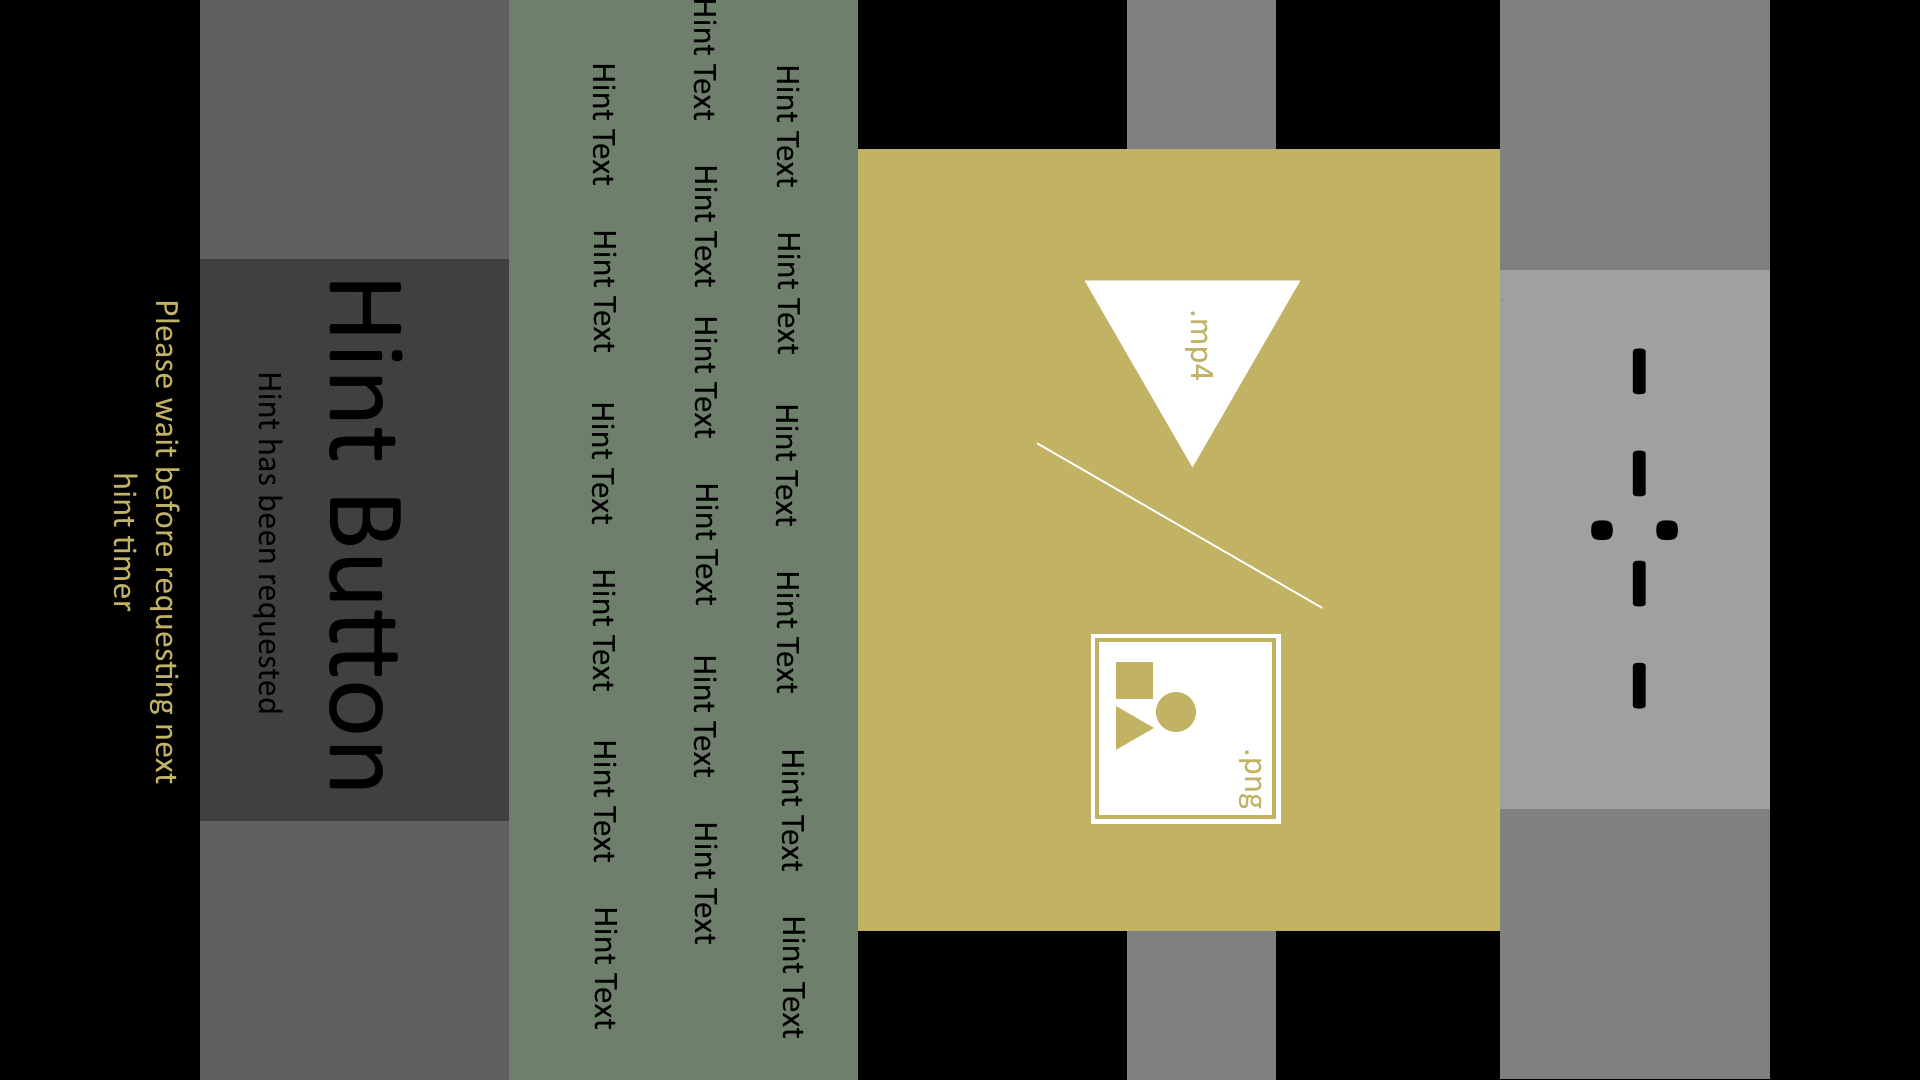
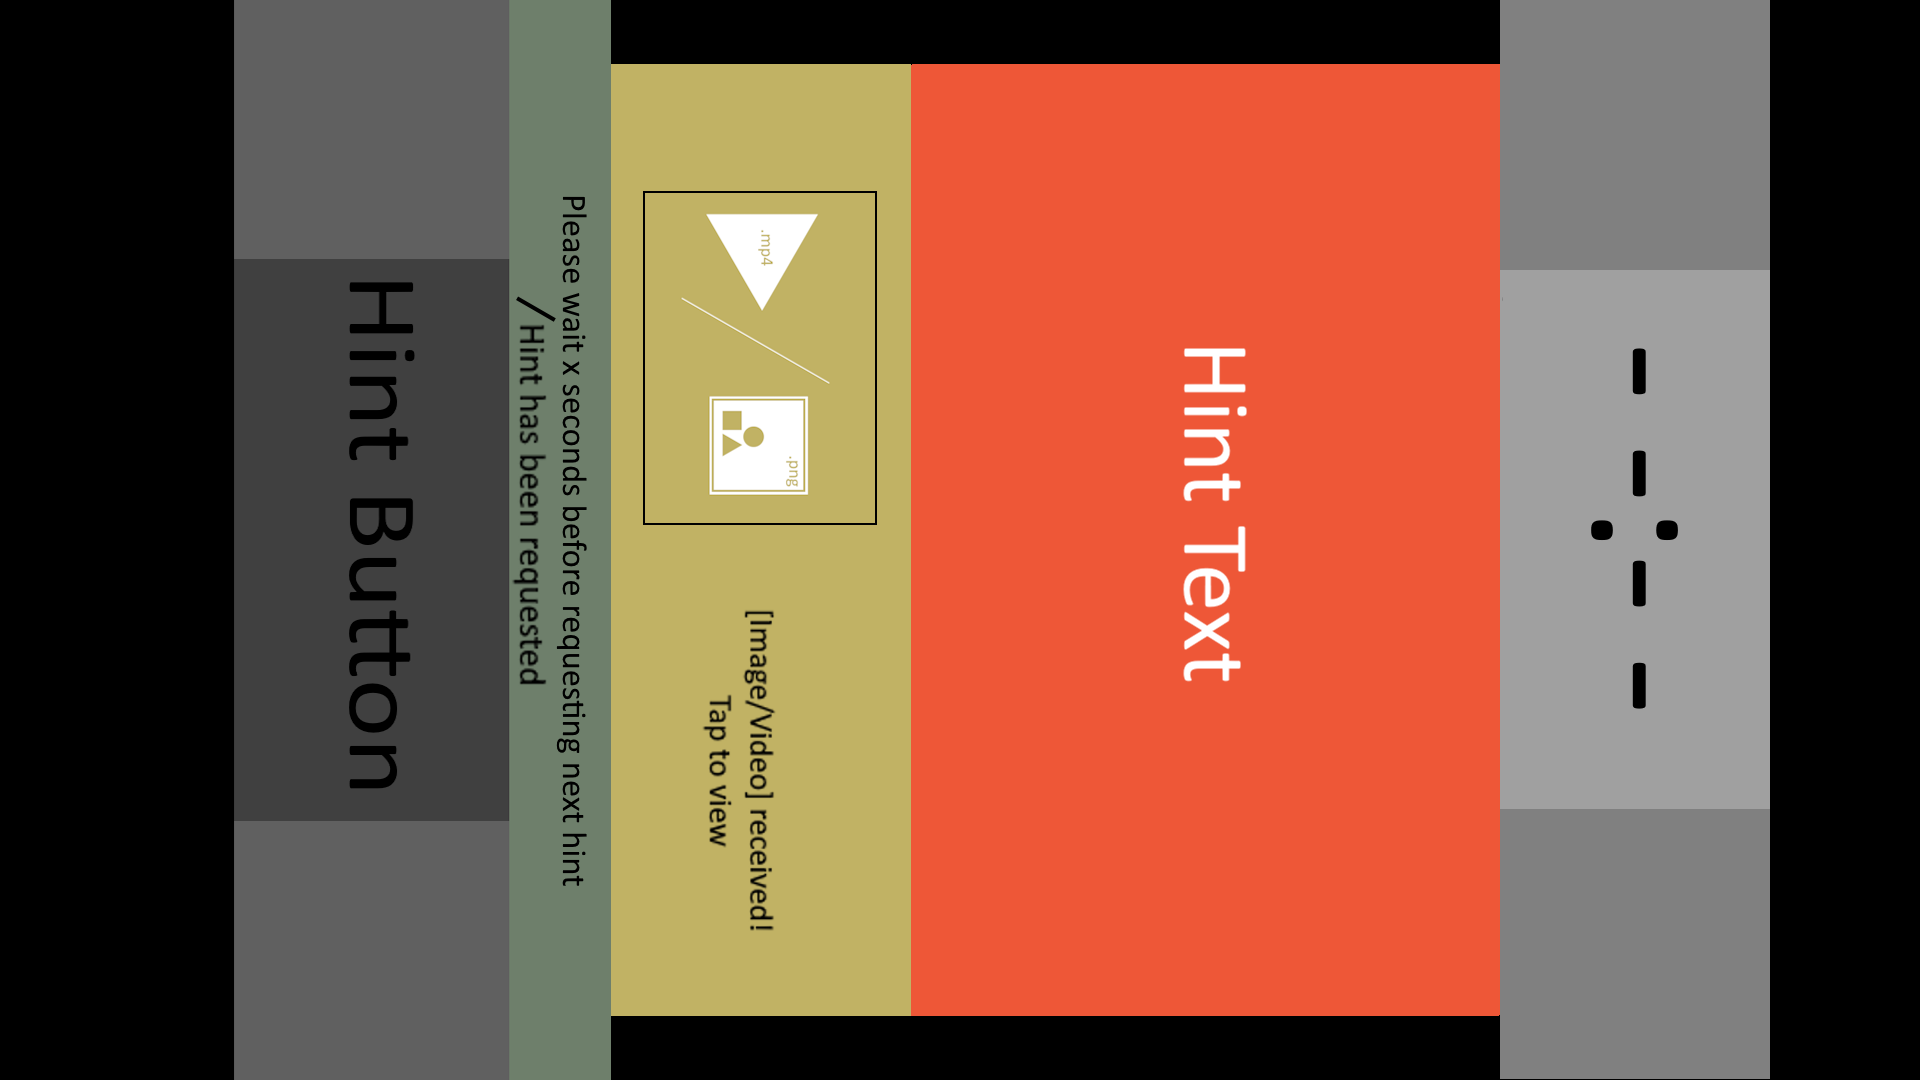
hint text location moved and scaled

diff --git a/kiosk/ui.py b/kiosk/ui.py
@@ -237,8 +237,7 @@ class KioskUI:
             })
 
     def show_hint(self, text_or_data):
-        """Shows the hint text and image in separate, non-overlapping areas, rotated 270 degrees.
-        Text appears in left panel, image in right panel if present."""
+        """Shows the hint text and image in the specified coordinates (911,64) to (1499,1015)"""
         print("\n=== PROCESSING NEW HINT ===")
         print(f"Received hint data: {type(text_or_data)}")
         
@@ -250,27 +249,27 @@ class KioskUI:
                 self.request_pending_label.destroy()
                 self.request_pending_label = None
             
+            # Calculate dimensions based on specified coordinates
+            hint_width = 1499 - 911  # = 588
+            hint_height = 1015 - 64  # = 951
             
             # Create hint container if needed
             if self.hint_label is None:
                 print("Creating new hint canvas")
-                # Create much wider canvas to accommodate separated text and image
-                total_width = 600  # Total width for both panels
-                
-                # Initialize canvas with black background (fallback)
                 self.hint_label = tk.Canvas(
                     self.root,
-                    width=total_width,   # Width accommodates both text and image
-                    height=800,          # Height (becomes width when rotated)
-                    bg='#000000',         # Default background
+                    width=hint_width,
+                    height=hint_height,
+                    bg='#000000',
                     highlightthickness=0
                 )
-                self.hint_label.place(relx=0.4, rely=0.5, anchor='center')
+                # Position canvas at exact coordinates
+                self.hint_label.place(x=911, y=64)
             else:
                 print("Clearing existing hint canvas")
                 self.hint_label.delete('all')
 
-            # Load room-specific hint background regardless of whether canvas is new or existing
+            # Load room-specific hint background
             background_name = None
             if hasattr(self.message_handler, 'assigned_room'):
                 room_num = self.message_handler.assigned_room
@@ -291,25 +290,14 @@ class KioskUI:
                     bg_path = os.path.join("hint_backgrounds", background_name)
                     if os.path.exists(bg_path):
                         bg_image = Image.open(bg_path)
-                        # Resize to fit canvas
-                        bg_image = bg_image.resize((600, 800), Image.Resampling.LANCZOS)
+                        # Resize to fit canvas exactly
+                        bg_image = bg_image.resize((hint_width, hint_height), Image.Resampling.LANCZOS)
                         photo = ImageTk.PhotoImage(bg_image)
-                        # Store reference to prevent garbage collection
                         self.hint_label.bg_image = photo
-                        # Create background image on canvas at layer 0
                         self.hint_label.create_image(0, 0, image=photo, anchor='nw', tags='background')
-                        # Move background to bottom layer
                         self.hint_label.tag_lower('background')
                 except Exception as e:
                     print(f"Error loading hint background: {e}")
-
-            # Create visual separator between text and image areas
-            #self.hint_label.create_line(
-                #300, 0,    # Start at middle top
-                #300, 800,  # End at middle bottom
-                #fill='black',
-                #width=2
-            #)
 
             # Parse hint data
             hint_text = ""
@@ -328,9 +316,9 @@ class KioskUI:
                 print(f"WARNING: Unexpected hint data type: {type(text_or_data)}")
                 hint_text = str(text_or_data)
             
-            # Define panel dimensions
-            panel_width = 300   # Width of each panel (text and image)
-            panel_height = 800  # Height of each panel
+            # Define panel dimensions for split layout
+            panel_width = hint_width // 2    # Split width in half for text and image
+            panel_height = hint_height
             
             # Position text in left panel
             if hint_text:
@@ -394,28 +382,28 @@ class KioskUI:
                     print("\nError processing hint image:")
                     traceback.print_exc()
                     self.hint_label.create_text(
-                        225,    # Right side position
-                        400,    # Vertical center
+                        panel_width + panel_width/2,
+                        panel_height/2,
                         text=f"[Error displaying image: {str(e)}]",
                         fill='red',
                         font=('Arial', 16),
-                        width=780,
+                        width=panel_height-40,
                         angle=270,
                         justify='center'
                     )
         except Exception as e:
             print("\nCritical error in show_hint:")
             traceback.print_exc()
-            # Try to show error message in UI
             try:
                 if hasattr(self, 'hint_label') and self.hint_label:
                     self.hint_label.delete('all')
                     self.hint_label.create_text(
-                        150, 400,
+                        hint_width/2,
+                        hint_height/2,
                         text=f"Error displaying hint: {str(e)}",
                         fill='red',
                         font=('Arial', 16),
-                        width=780,
+                        width=hint_height-40,
                         angle=270,
                         justify='center'
                     )
